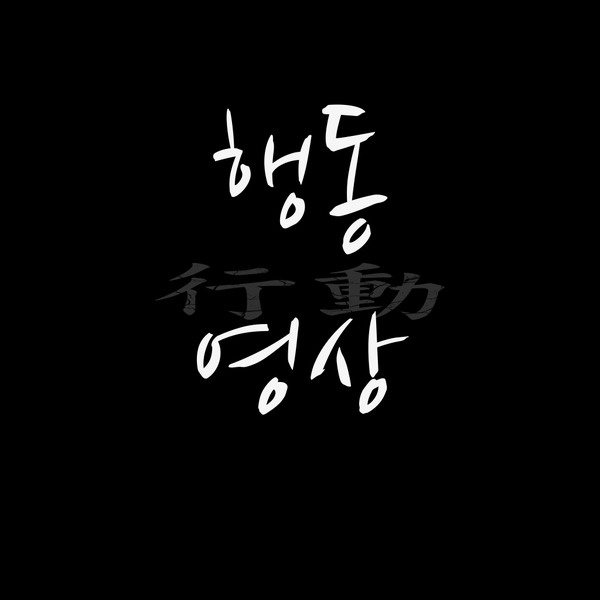
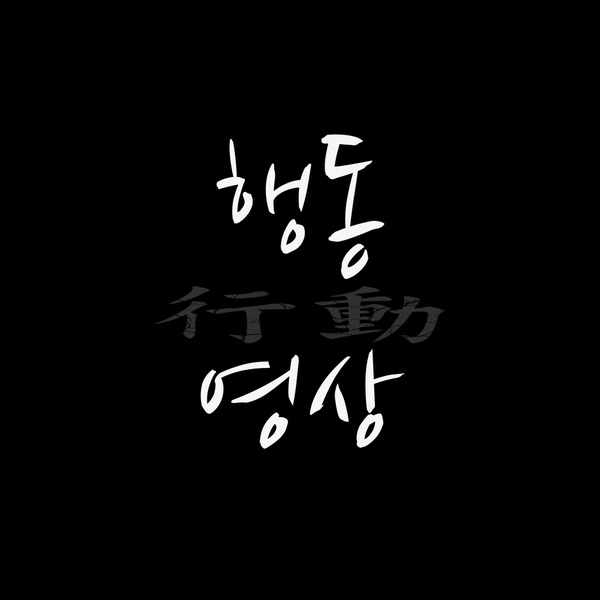
행동영상 표지 위치 조정

Changed region(s): [[0.27, 0.15, 0.75, 0.75]]

diff --git a/index.html b/index.html
@@ -12,7 +12,7 @@
 <meta name="apple-mobile-web-app-capable" content="yes">
 <meta name="apple-mobile-web-app-status-bar-style" content="black">
 <meta name="apple-mobile-web-app-title" content="행동힙합">
-<link rel="stylesheet" href="app.css?v=1790751692">
+<link rel="stylesheet" href="app.css?v=1790751719">
 </head>
 <body>
 <div id="app">
@@ -81,6 +81,6 @@
   <div id="menu" hidden></div>
   <div id="toast" hidden></div>
 </div>
-<script src="app.js?v=1790751692"></script>
+<script src="app.js?v=1790751719"></script>
 </body>
 </html>
